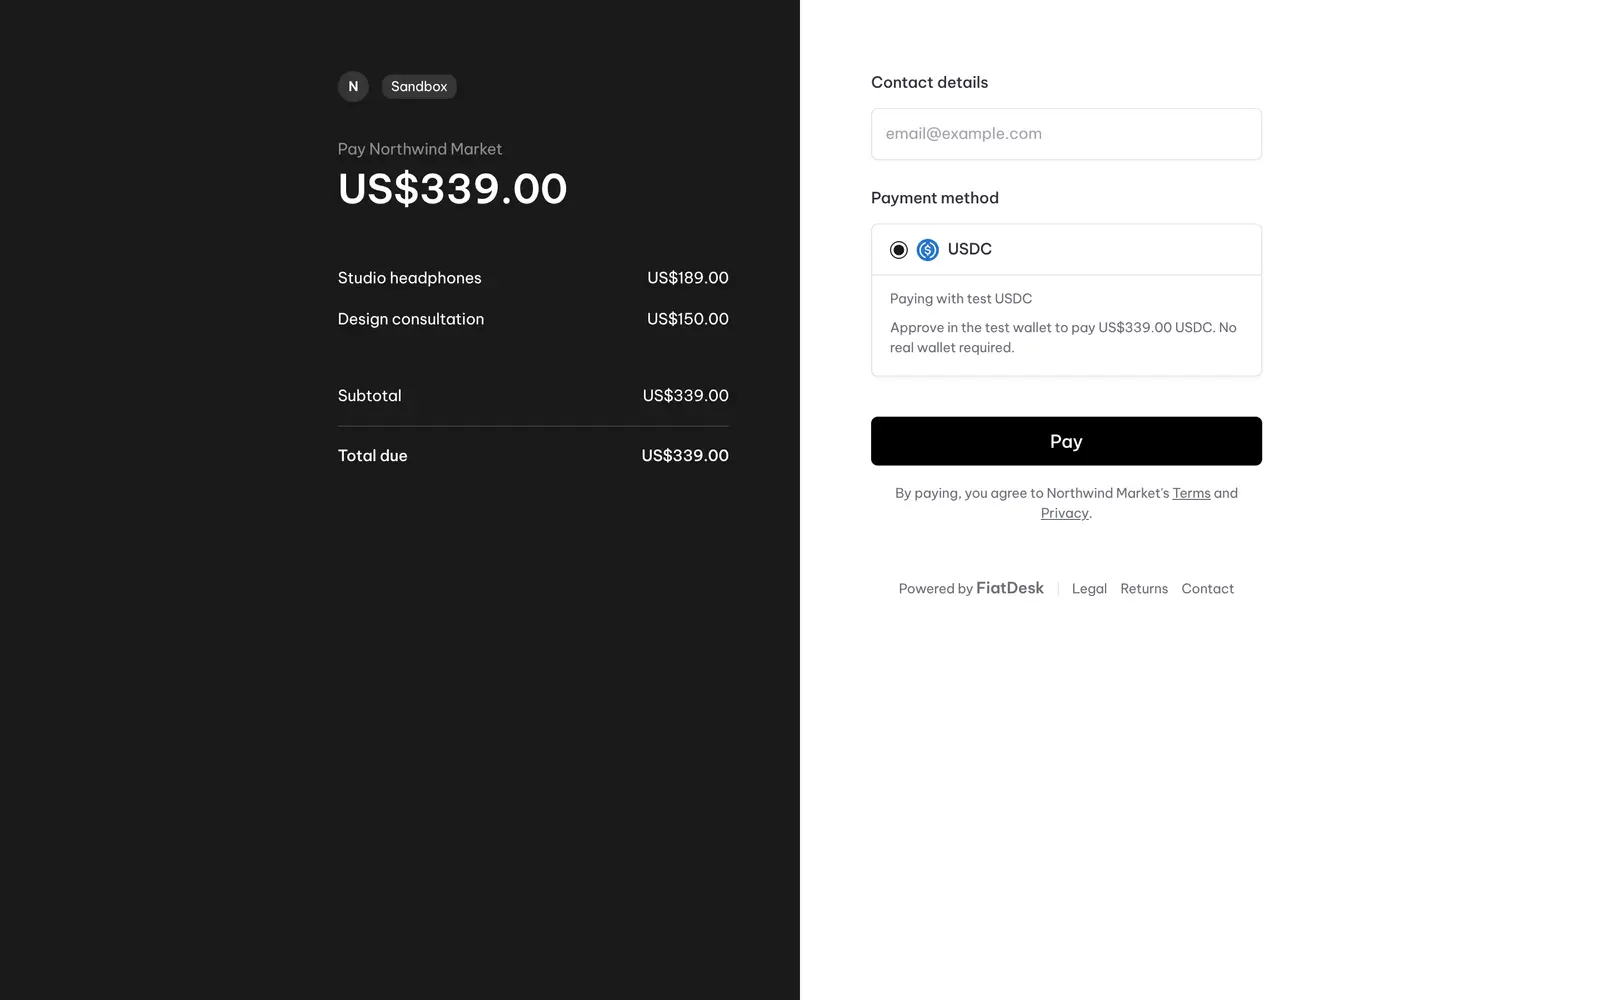
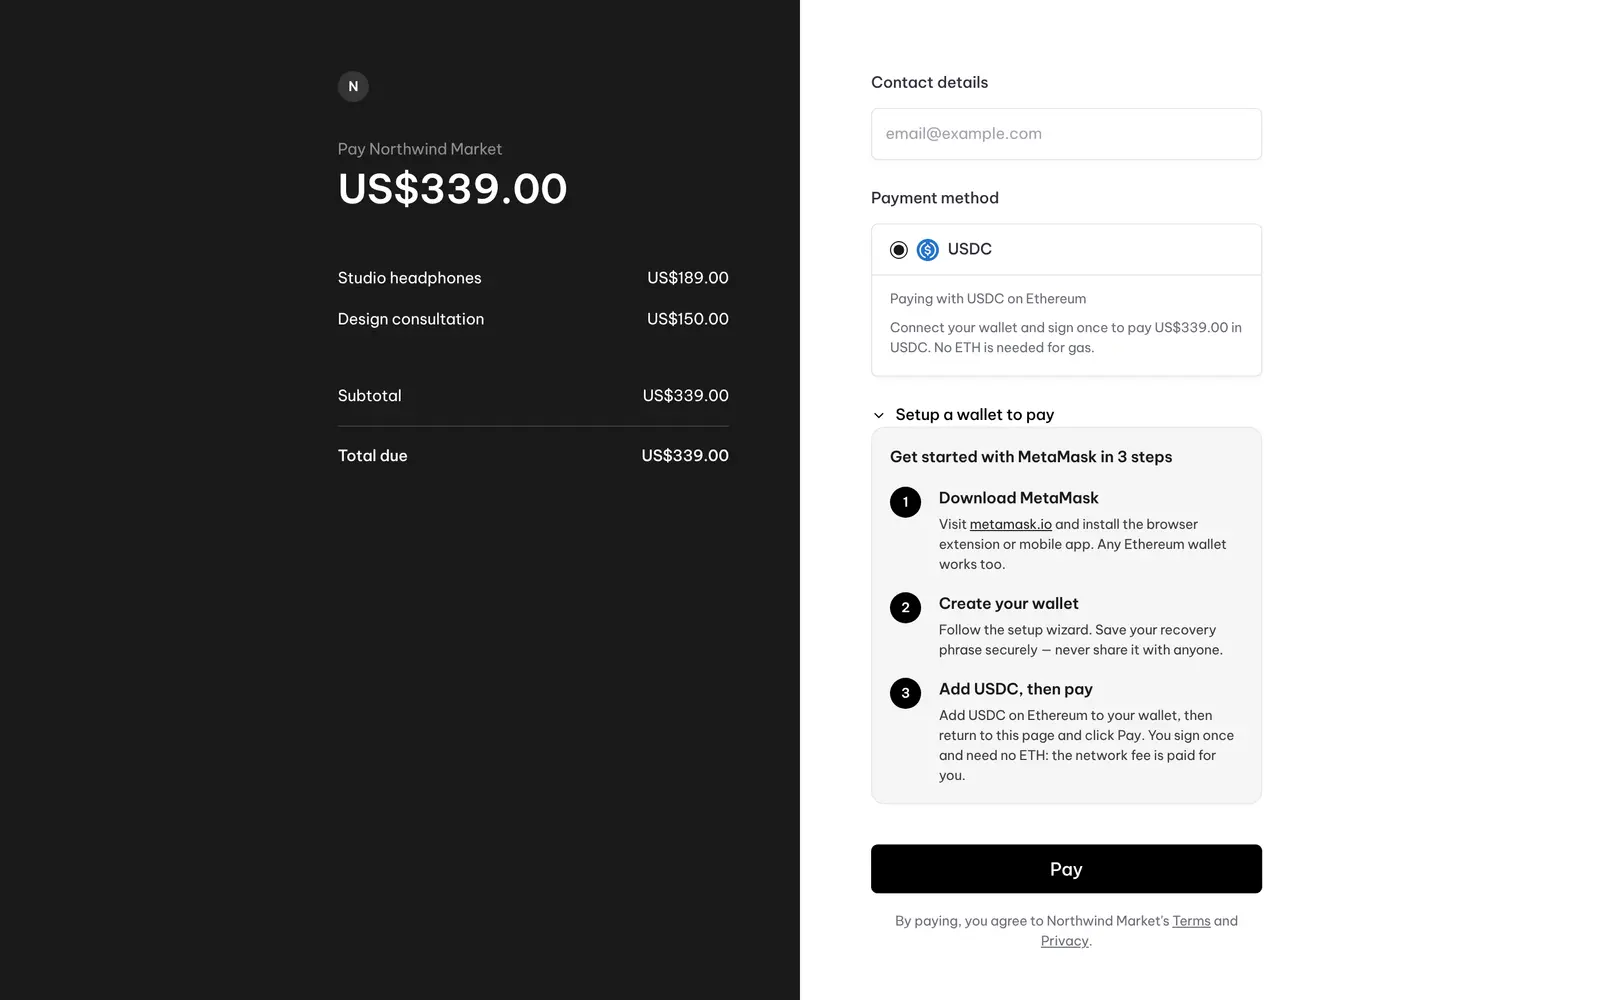
docs: retake README screenshots in live mode
The dashboard and checkout screenshots now show the live UI (no test-mode
banner, Ethereum checkout copy). They were taken with the API in live mode
against a local Anvil chain with chain ID 1, using demo data.

diff --git a/CHANGES.md b/CHANGES.md
@@ -2880,7 +2880,7 @@ sdks/node/package.json
   - A new header with badges, quick links and a dashboard screenshot.
   - A "Why FiatDesk" list.
   - A product tour (hosted checkout, payments, subscriptions, marketplaces, API reference) that replaces the old feature list.
-- **Screenshots.** `docs/screenshots/*.webp` were captured from a local simulated-rail instance seeded with demo data ("Northwind Market"). Nothing in them is real.
+- **Screenshots.** `docs/screenshots/*.webp` show demo data ("Northwind Market"), seeded on the simulated rail. The dashboard and checkout shots were then retaken with the API in live mode against a local Anvil chain with chain ID 1, so they show the live UI without the test-mode banner. Nothing in them is real, and no public network was used.
 - **Upstream residue removed.**
   - The docs header's Discord link pointed to the original project's server; it is removed, with its icon and style.
   - The four unreferenced upstream docs screenshots under `apps/docs/src/assets/images/screenshots/` are deleted. They showed PromptBase and Solana.
